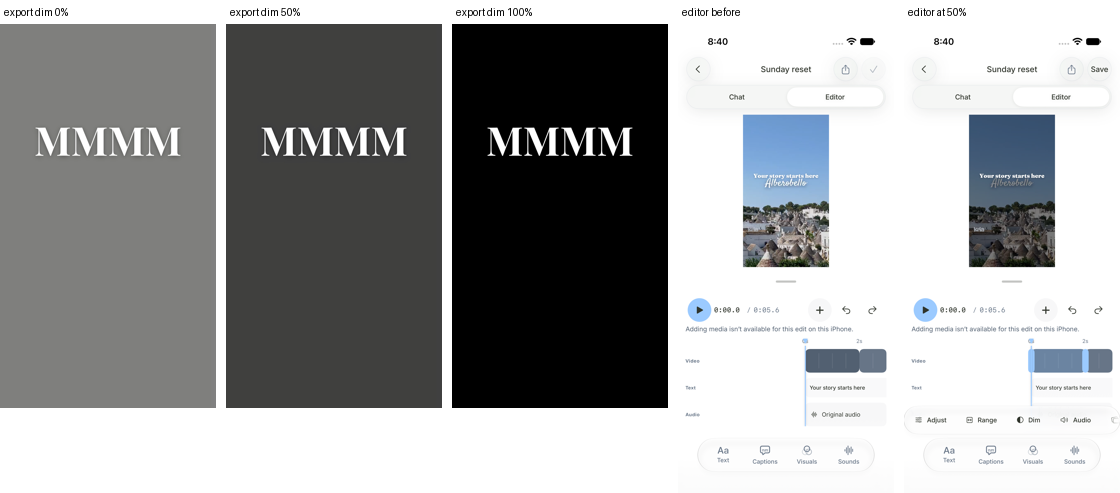
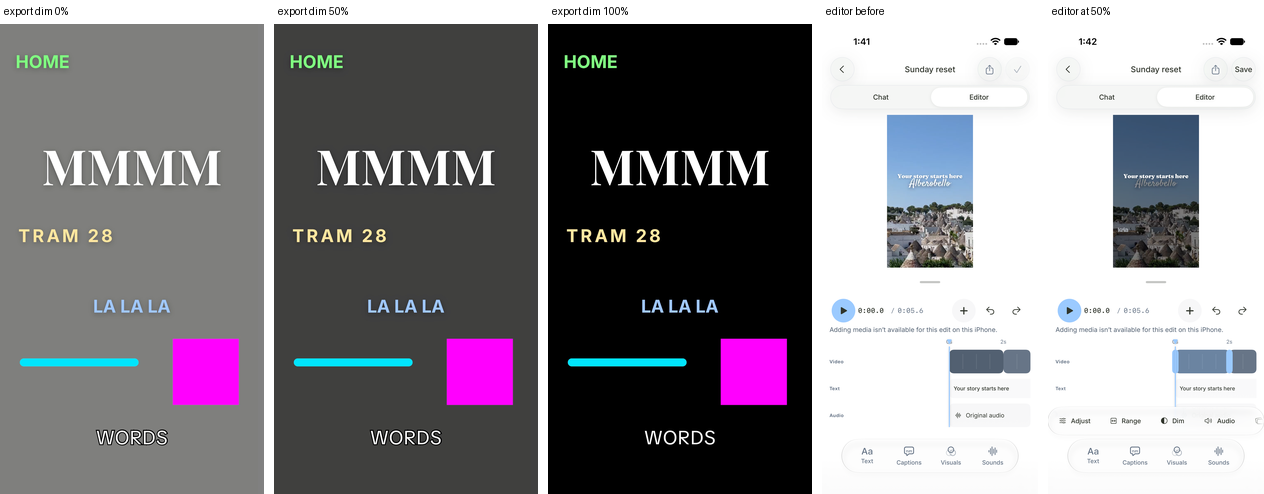
docs(kria): clip dim proof covers every layer, the text matte and the tighter editor band (KRI-1608)
export-proof.md and montage.png carry the every-layer export table, both negative controls and the
text-free preview ratio. CLAUDE.md's clip dim line loses five characters so the file stays inside
its budget after the rebase.

diff --git a/src/apps/api/app/agents/editor_ops_v2/timeline.py b/src/apps/api/app/agents/editor_ops_v2/timeline.py
@@ -65,8 +65,8 @@ _PATCH_KEYS = frozenset(
         "source_audio_volume",
     }
 )
-# Keys open only while `timeline_patch_capabilities[gate]` is true; an absent gate is closed, so
-# the snapshot shows the model nothing and only the tool schema can keep it from asking.
+# Keys open only while `timeline_patch_capabilities[gate]` is true (absent is closed); every other
+# key is open unless its own capability is false.
 _GATED_PATCH_KEYS = {"dim": "dim", "tilt": "tilt", "muted": "muted", "source_audio_volume": "muted"}
 _TILT_KEYS = frozenset({"rotation_deg", "rotation_delta_deg", "zoom", "zoom_delta", "backdrop"})
 _TILT_ZOOM_KEYS = ("zoom", "zoom_delta")
@@ -496,7 +496,10 @@ def _coerce_reorder_clips_by(name: str, payload: dict, snapshot: dict, state: An
     if criterion == "custom":
         live = [index for index, slot in enumerate(slots) if not slot.get("removed")]
         order = payload.get("order")
-        from app.services.clip_order_ledger import apply_order, clip_order_ledger_on  # noqa: PLC0415
+        from app.services.clip_order_ledger import (  # noqa: PLC0415
+            apply_order,
+            clip_order_ledger_on,
+        )
 
         if (
             clip_order_ledger_on()

diff --git a/docs/reviews/clip-dim/export-proof.md b/docs/reviews/clip-dim/export-proof.md
@@ -4,37 +4,64 @@ Native output on the iPhone simulator (iPhone 17 Pro, iOS 27.2). No physical iPh
 
 ## Export (proof b)
 
-`ClipDimRenderTests.testADimmedClipExportsDarkerByItsStrengthUnderAFullBrightnessTitle` compiles an editor row with
-`dim` through the device compiler, exports it with `KriaMediaEngine`'s production exporter and measures the MP4 at
-0.75 s against an undimmed export of the same edit. The clip is mid-grey, with a white title in the upper third.
+`ClipDimRenderTests.testADimmedClipExportsDarkerByItsStrengthUnderEveryTextStickerAndDrawing` compiles one editor
+draft through the device compiler, exports it with `KriaMediaEngine`'s production exporter and measures the MP4 at
+0.75 s against an undimmed export of the same edit. A mid-grey clip sits under every layer a creator puts over it:
+a title, pinned corner text, an informative heading (`text_stack_v1`, heading level 2), a song lyric line
+(`source_params.origin = "song"`), a caption cue, a pasted sticker (a media overlay) and a drawn stroke.
 
 ```bash
 cd src/apps/ios && TEST_RUNNER_KRIA_CLIP_DIM_RENDER_DIR=/tmp/clip-dim-render xcodebuild -project Kria.xcodeproj \
   -scheme Kria -destination "id=<simulator>" test -only-testing:KriaTests/ClipDimRenderTests
 ```
 
-| Dim | Picture luma | Picture ratio | Title luma | Title ratio |
-|---|---|---|---|---|
-| none | 126.88 | 1 | 254.78 | 1 |
-| 50% | 63.86 | 0.503 | 254.78 | 0.99998 |
-| 100% | 0.00 | 0.000 | 254.77 | 0.99994 |
+Each layer is measured on its opaque interior only: the pixels in its own band of the frame whose undimmed luma is
+within 6 of the layer's fill. Anti-aliased edges, caption outlines and shadows blend with the dimmed picture beside
+them, so they are left out. The picture is a text-free patch right of the pinned text.
 
-The title region is the 39,339 pixels brighter than luma 235 in the undimmed export.
+| Layer | Pixels | Luma, no dim | Luma at 50% | Ratio at 50% | Luma at 100% | Ratio at 100% |
+|---|---|---|---|---|---|---|
+| Picture | 54,621 | 126.86 | 63.86 | 0.503 | 0.00 | 0.000 |
+| Title | 38,952 | 254.90 | 254.91 | 1.000 | 254.91 | 1.000 |
+| Pinned corner text | 5,413 | 218.63 | 218.61 | 1.000 | 218.62 | 1.000 |
+| Informative heading | 7,188 | 230.55 | 230.56 | 1.000 | 230.55 | 1.000 |
+| Song lyric line | 5,598 | 195.55 | 195.51 | 1.000 | 195.50 | 1.000 |
+| Caption | 4,622 | 254.73 | 254.71 | 1.000 | 254.71 | 1.000 |
+| Sticker | 71,824 | 72.55 | 72.55 | 1.000 | 72.55 | 1.000 |
+| Drawing | 15,325 | 182.00 | 181.72 | 0.998 | 181.54 | 0.997 |
+
+The test requires at least 0.98 for every layer. The drawing's small drop is most likely its edge (inferred, not
+isolated): video chroma subsampling carries a little of the darker picture into the stroke pixels next to its edge.
+
+**Negative control.** With a temporary line in `RecipeVideoCompositor.render` that dims the whole final frame (text,
+stickers and drawings included) whenever a clip carries a dim, every layer assertion fails: each layer reads 0.50 at
+50% and 0.00 at 100%, and the picture reads 0.244. So the test does see a dimmed layer. Restored, it passes.
+
+## Text behind a dimmed person
+
+`ClipDimCompositionTests.testABehindSubjectTitleHidesBehindADimmedPersonAsItDoesUndimmed` (engine, `swift test`) puts
+a behind-subject title over a clip whose left half is a person. The text matte finds the person on the undimmed
+picture, as the speaker matte already did, so the title hides behind the same person at 0%, 50% and 100%. Before the
+fix the matte read the dimmed frame and the title's left half (2,795 ink pixels) painted over the person at 50% and
+100%.
 
 ## Editor (proof a)
 
-`NativeDimUITests.testDimHalfApplyToAllRemoveOneSaveAndReopen` reads the live preview from a screenshot: mean luma of
-its middle half went from 153.2 to 83.5 (ratio 0.545; the region includes the bright title) after dimming clip 1 to
-50%. It then applies 50% to all clips, removes the dim from clip 2, saves, relaunches and finds clip 1 at 50% and
-clip 2 at 0%.
+`NativeDimUITests.testDimHalfApplyToAllRemoveOneSaveAndReopen` reads the live preview from a screenshot: the mean luma
+of a text-free patch (the middle half across, 60% to 85% down) went from 114.63 to 59.15 after dimming clip 1 to 50%,
+a ratio of 0.516. The test requires 0.45 to 0.58. It then applies 50% to all clips, removes the dim from clip 2, saves,
+relaunches and finds clip 1 at 50% and clip 2 at 0%.
 
-`montage.png` shows the three export frames and the editor before and at 50%.
+**Negative control.** With the two tone-curve conversions removed from `RecipeVideoCompositor.dimmed` (a multiply in
+the compositor's linear light), the same patch reads 0.731 and the test fails.
 
-## Negative control
+`montage.png` shows the three export frames and the editor before and at 50%. In the editor shots, "Your story starts
+here" is an editor text layer and stays white; "Alberobello" is burned into the fixture video (`montage.mp4`), so it is
+part of the picture and dims with it.
+
+## Engine negative control
 
 The dim must multiply ENCODED values. With the two tone-curve conversions removed from
-`RecipeVideoCompositor.dimmed` (a multiply in the compositor's linear light),
-`swift test --filter ClipDimCompositionTests` fails: at 50% the clip pixel `[200, 120, 40]` reads
-`[146, …]` instead of `[100, 60, 20]`, the tilt backdrop and the 25% and 75% cases miss by 26 to 56
-levels, and the dimmed Talking speaker reads green 191 instead of 128. With the conversions in
-place all six tests pass. Run on macOS (`swift test`), 2026-11-24.
+`RecipeVideoCompositor.dimmed`, `swift test --filter ClipDimCompositionTests` fails: at 50% the clip pixel
+`[200, 120, 40]` reads `[146, …]` instead of `[100, 60, 20]`, the tilt backdrop and the 25% and 75% cases miss by 26
+to 56 levels, and the dimmed Talking speaker reads green 191 instead of 128. Run on macOS (`swift test`), 2026-11-24.

diff --git a/CLAUDE.md b/CLAUDE.md
@@ -215,7 +215,7 @@ Use subprocess FFmpeg directly; patterns in agents/VIDEO_CONTEXT.md.
 - `CAPTION_ANIMATION_ENABLED` — default `true` (KRI-1007): caption entrance/exit/loop (protocol 24, `authoredText`); off = old captions. `phone-rendering.md`.
 - `SPEAKER_BACKGROUND_ENABLED` — default **`false`**; token/protocol: `speakerBackground` 27, `speakerBackgroundWindows` 32, `speakerBackgroundColor` 34. `docs/pipelines/speaker-background.md`.
 - `MEDIA_TILT_ENABLED` — default **`false`** (KRI-1134). Clip tilt + backdrop; needs `clipTilt` verified + protocol ≥28. phone-rendering.md.
-- `CLIP_DIM_ENABLED` — default **`false`**. Phone-only clip/photo dim under text; needs `clipDim` verified + `CLIP_DIM_PROTOCOL`. phone-rendering.md.
+- `CLIP_DIM_ENABLED` — default **`false`**. Phone-only clip dim under text; needs `clipDim` verified + `CLIP_DIM_PROTOCOL`. phone-rendering.md.
 - `COLOR_MOMENTS_ENABLED` — default **`false`** (KRI-1350). Chat-set B&W/warm/faded windows, flash/dip edges, end fade; needs `colorMoments` verified + protocol ≥48. phone-rendering.md.
 - `INFORMATIVE_TEXT_DESIGNS_ENABLED` — default `false` (KRI-1585): hook/research roles, creator > design > prefs styles; stamped per job. Guard: `test_kri1579_creator_edits_win.py`.
 - `CREATOR_EDITORIAL_TASTE_ENABLED` / `_USER_IDS` — `false` / `[]` (`["*"]` = all accounts; ENABLED = kill switch). `docs/runbooks/editorial-taste-calibration.md`.
